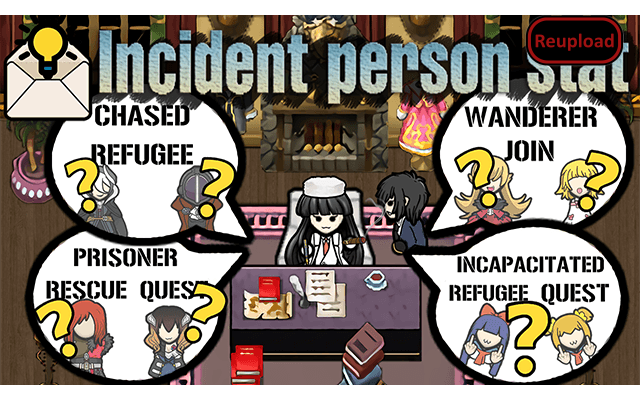
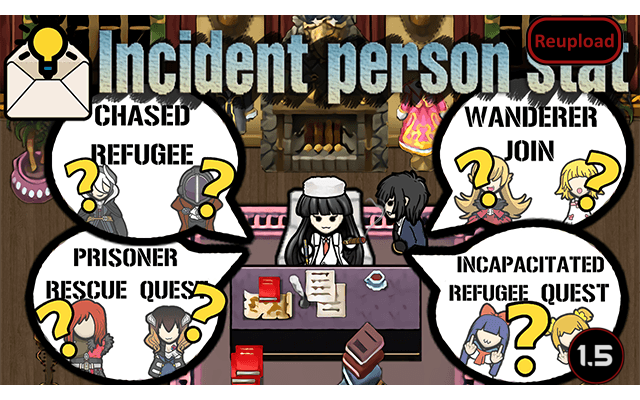
Mod updated for 1.5 and passed autotests

Changed region(s): [[0.875, 0.81, 1.0, 0.96]]

diff --git a/README.md b/README.md
@@ -1,6 +1,5 @@
 # IncidentPersonStat
 
-
 ![Image](https://i.imgur.com/buuPQel.png)
 
 Update of Vaniats mod
@@ -37,9 +36,13 @@ http://ko-fi.com/vaniat]Buy me a coffee
 
 -  See if the the error persists if you just have this mod and its requirements active.
 -  If not, try adding your other mods until it happens again.
--  Post your error-log using https://steamcommunity.com/workshop/filedetails/?id=818773962]HugsLib and command Ctrl+F12
+-  Post your error-log using https://steamcommunity.com/workshop/filedetails/?id=818773962]HugsLib or the standalone https://steamcommunity.com/sharedfiles/filedetails/?id=2873415404]Uploader and command Ctrl+F12
 -  For best support, please use the Discord-channel for error-reporting.
 -  Do not report errors by making a discussion-thread, I get no notification of that.
 -  If you have the solution for a problem, please post it to the GitHub repository.
+-  Use https://github.com/RimSort/RimSort/releases/latest]RimSort to sort your mods
 
-https://steamcommunity.com/sharedfiles/filedetails/changelog/2896052868]Last updated 2022-12-01
+
+
+https://steamcommunity.com/sharedfiles/filedetails/changelog/2896052868]![Image](https://img.shields.io/github/v/release/emipa606/IncidentPersonStat?label=latest%20version&style=plastic&color=9f1111&labelColor=black)
+
